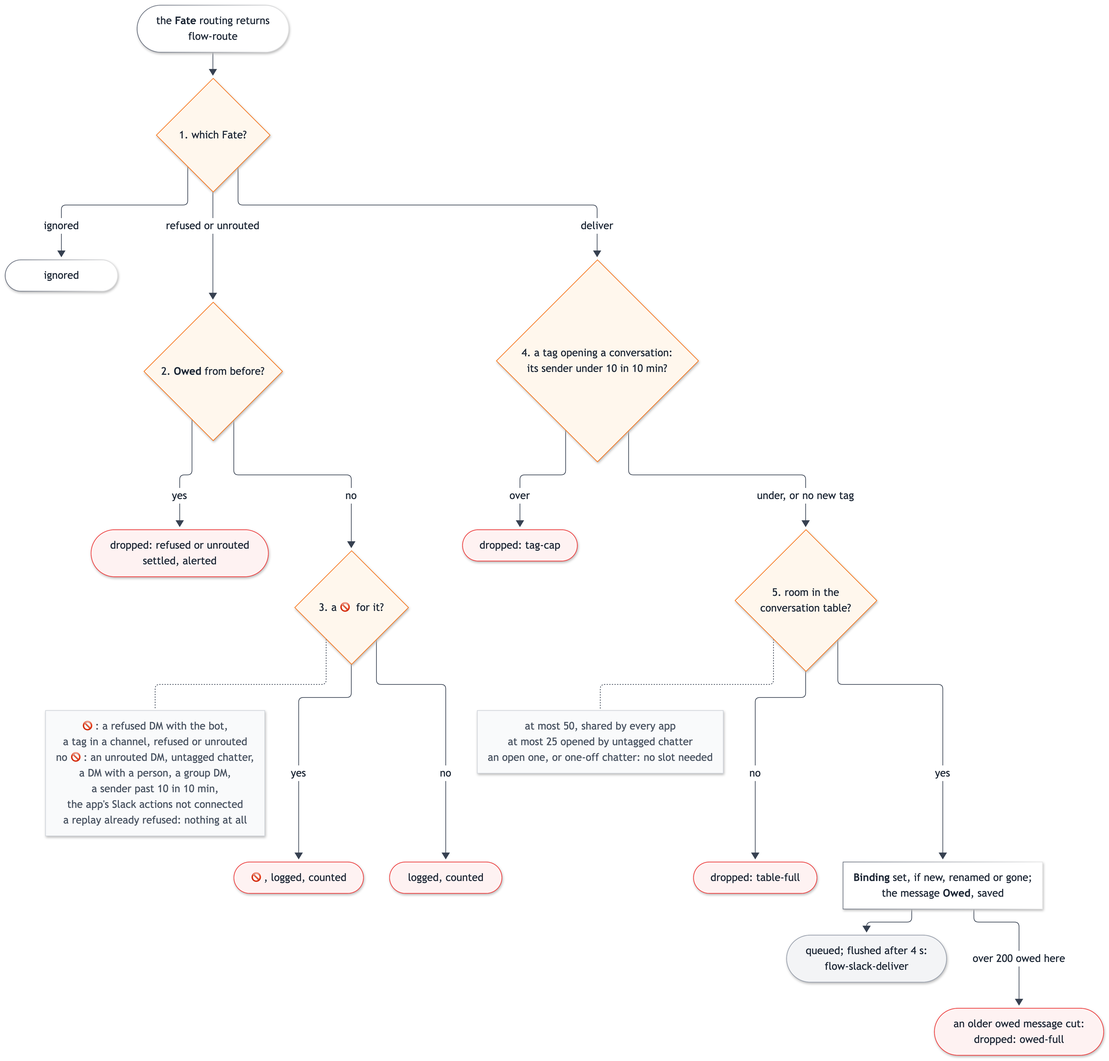
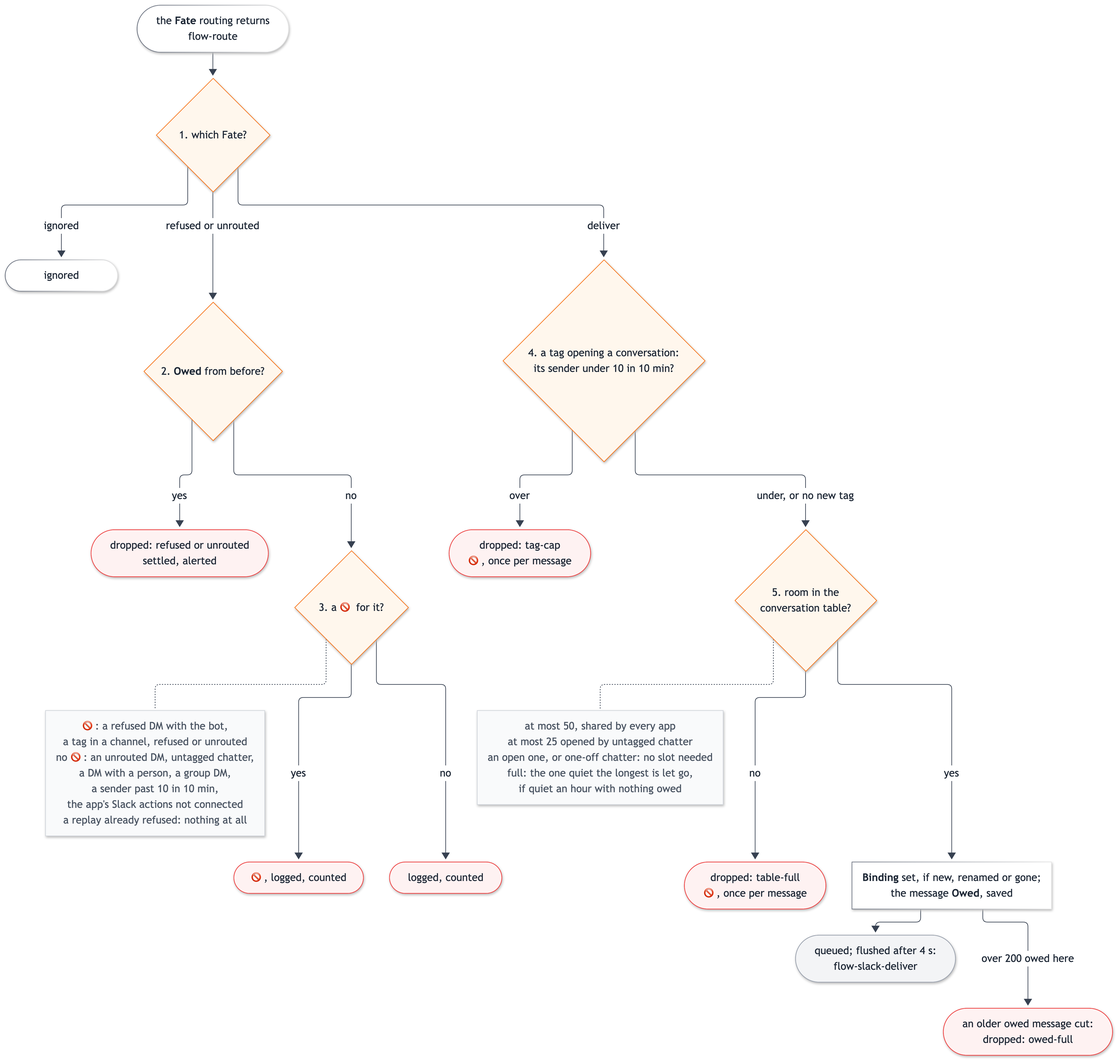
Slack: a full conversation table lets go of the one quiet the longest; a dropped tag gets the 🚫
A full table (50, shared by every app) dropped every new conversation, silently to
its sender. Now it lets go of the conversation quiet the longest, as idle expiry
would, when one has nothing owed, nothing in the window or in flight, no wait for
a session, and an hour of quiet; only when none qualifies is the new one dropped.
table-full and tag-cap drops now get the refusal's 🚫, once per message, under the
same per-sender cap.

diff --git a/connectors/slack/watch.ts b/connectors/slack/watch.ts
@@ -374,6 +374,8 @@ const REACTION_NAME = /^[A-Za-z0-9_+'-]{1,100}(::skin-tone-[2-6])?$/
 const REACTED_KEEP = 300
 const OURS_KEEP = 300
 const AMBIENT_IDLE_MS = 86_400_000
+/** How long a conversation must be quiet before a full table lets it go for a new one. */
+const EVICT_QUIET_MS = 3600_000
 /** The time of a tag in a store that kept none: older than any. */
 const UNKNOWN_TS = '0.000000'
 /** How many channels no rule names catch-up reads for an app, the ones it was tagged in most recently: the bound on the extra history reads. */
@@ -734,12 +736,34 @@ export class ConversationTable {
       return existing
     }
     const cap = this.deps.config(app)?.maxConversations ?? SLACK_LIMITS.maxConversations
-    if (this.list().filter(e => !oneOff(e)).length >= cap) return undefined
+    const held = this.list().filter(e => !oneOff(e))
+    if (held.length >= cap && !this.evict(held, held.length - cap + 1, cap, now, conversationId({ app, channel, threadTs }))) return undefined
     const entry: ConversationEntry = { ...(appOfEntry({ app }) !== DEFAULT_SLACK_APP && { app }), channel, threadTs, specialist, ...(mentionedBy && { mentionedBy }), createdAt: now, lastEventAt: now }
     this.entries.set(keyOf(entry), entry)
     this.persist()
     this.tellSessionsTaken(entry)
     return entry
+  }
+
+  /**
+   * A full table makes room for a new conversation by letting go of the `n` quiet the longest, as idle expiry would (a session thread is told).
+   * Only one with nothing owed, nothing waiting in the window or in flight, no wait for a session, and quiet `EVICT_QUIET_MS`: a session handed
+   * its last message may still be answering, and its reply needs the binding. False, and nothing let go, when fewer than `n` qualify.
+   */
+  private evict(held: ConversationEntry[], n: number, cap: number, now: number, opening: string): boolean {
+    const victims = held.filter(e => {
+      const key = keyOf(e)
+      return !e.owed?.length && e.waitingSince === undefined && !this.pending.has(key) && !this.inflight.get(key)?.size && now - e.lastEventAt >= EVICT_QUIET_MS
+    }).sort((a, b) => a.lastEventAt - b.lastEventAt).slice(0, n)
+    if (victims.length < n) return false
+    for (const e of victims) {
+      this.entries.delete(keyOf(e))
+      const quiet = spanText(now - e.lastEventAt)
+      this.deps.log(`daemon: slack connector: the conversation table is full (${cap}), so ${conversationId(e)}${e.specialist ? ` (bound to ${spelledBare(e.specialist)})` : ''}, quiet the longest (${quiet}), was let go to open ${opening}\n`)
+      if (e.specialist && isSessionThread(e.specialist)) this.deps.alert?.(`ℹ The conversation table was full, so hydra let go of ${conversationId(e)}, the one quiet the longest (no message for ${quiet}). Bind again with \`bind_conversation\` to listen.`, e.specialist, appOfEntry(e))
+    }
+    this.persist()
+    return true
   }
 
   /**
@@ -1234,12 +1258,13 @@ export class ConversationTable {
     // A conversation opened by untagged chatter may take only half the table: the rest stays free for mentions and DMs.
     const ambient = !existing && !tagged && !dm
     if (ambient && this.list().filter(e => e.ambient && !oneOff(e)).length >= Math.floor(cfg.maxConversations / 2)) {
-      this.drop('table-full', { app, channel: ev.channel, threadTs, specialist: d.to }, [ev.ts], `conversations opened by untagged chatter already hold half the conversation table (${Math.floor(cfg.maxConversations / 2)} of ${cfg.maxConversations}); a tag still opens one`)
+      if (this.drop('table-full', { app, channel: ev.channel, threadTs, specialist: d.to }, [ev.ts], `conversations opened by untagged chatter already hold half the conversation table (${Math.floor(cfg.maxConversations / 2)} of ${cfg.maxConversations}); a tag still opens one`)) this.turnedAway({ ...ev, app })
       return 'ignored'
     }
     const entry = existing ?? this.watch(ev.channel, threadTs, d.to, ev.user, app)
     if (!entry) {
-      this.drop('table-full', { app, channel: ev.channel, threadTs, specialist: d.to }, [ev.ts], `the conversation table is full (${cfg.maxConversations}); unbind a conversation`)
+      // Its sender sees the 🚫, as a refused tag's does; a DM with a person or a group DM is not the bot's to react in.
+      if (this.drop('table-full', { app, channel: ev.channel, threadTs, specialist: d.to }, [ev.ts], `the conversation table is full (${cfg.maxConversations}) and none in it has been quiet an hour with nothing owed; unbind a conversation`) && !inNoBotDm) this.turnedAway({ ...ev, app })
       return 'ignored'
     }
     if (ambient) { entry.ambient = true; this.persist() }
@@ -1326,7 +1351,7 @@ export class ConversationTable {
     const recent = (this.mentionTimes.get(user) ?? []).filter(t => now - t < MENTION_WINDOW_MS)
     if (recent.length >= cfg.maxMentionsPer10Min) {
       this.mentionTimes.set(user, recent)
-      this.drop('tag-cap', { app: ev.app, channel: ev.channel, threadTs, specialist: to }, [ev.ts], `${user} tagged the bot ${recent.length} times in 10 minutes outside watched threads (maxMentionsPer10Min)`)
+      if (this.drop('tag-cap', { app: ev.app, channel: ev.channel, threadTs, specialist: to }, [ev.ts], `${user} tagged the bot ${recent.length} times in 10 minutes outside watched threads (maxMentionsPer10Min)`)) this.turnedAway(ev)
       return false
     }
     recent.push(now)
@@ -1380,19 +1405,25 @@ export class ConversationTable {
     if (fate === 'unrouted') this.stats_.unrouted++
     else { this.stats_.refused++; this.stats_.refusedBy[who] = (this.stats_.refusedBy[who] ?? 0) + 1 }
     this.deps.log(`daemon: slack connector: ${fate} ${who} in ${watchKey(ev.app, ev.channel, threadTs)} (ts ${ev.ts}): ${why}\n`)
-    // The 🚫 is capped per sender like tags are: past the window, a refusal is logged and counted only.
+    if (react) this.turnedAway(ev)
+  }
+
+  /**
+   * The 🚫 on a message hydra will not take (refused, unrouted, or dropped by the tag cap or a full table), so its sender sees it went nowhere.
+   * Capped per sender like tags are: past the window, it is logged and counted only. Callers react once per message (a replay is not new).
+   */
+  private turnedAway(ev: Pick<SlackMessageEvent, 'app' | 'channel' | 'ts' | 'user' | 'botId'>): void {
     const sender = ev.user ?? ev.botId
-    if (react && sender) {
+    if (sender) {
       const now = this.deps.now()
       const recent = (this.refusalTimes.get(sender) ?? []).filter(t => now - t < MENTION_WINDOW_MS)
-      if (recent.length >= (this.deps.config(ev.app)?.maxMentionsPer10Min ?? SLACK_LIMITS.maxMentionsPer10Min)) react = false
-      else recent.push(now)
+      const over = recent.length >= (this.deps.config(ev.app)?.maxMentionsPer10Min ?? SLACK_LIMITS.maxMentionsPer10Min)
+      if (!over) recent.push(now)
       this.refusalTimes.set(sender, recent)
+      if (over) return
     }
     const slack = this.actions.get(appOfEntry(ev))
-    if (react && slack) {
-      this.reactAs(slack, ev.app, ev.channel, ev.ts, REFUSED_REACTION)
-    }
+    if (slack) this.reactAs(slack, ev.app, ev.channel, ev.ts, REFUSED_REACTION)
   }
 
   /** A bot joined (or left) a channel: its reactions there are tried again at the next message, whoever it was. */
@@ -1421,10 +1452,10 @@ export class ConversationTable {
     })
   }
 
-  /** A message that will never be delivered: logged every time, counted, and alerted once per episode of its kind. */
-  private drop(kind: DropKind, where: Pick<ConversationEntry, 'app' | 'channel' | 'threadTs' | 'specialist'>, ts: string[], why: string, alert = true): void {
+  /** A message that will never be delivered: logged every time, counted, and alerted once per episode of its kind. False for a replay already dropped. */
+  private drop(kind: DropKind, where: Pick<ConversationEntry, 'app' | 'channel' | 'threadTs' | 'specialist'>, ts: string[], why: string, alert = true): boolean {
     const fresh = ts.filter(t => this.firstTime(this.noted.dropped, `${scoped(where.app, where.channel)}:${t}`))
-    if (!fresh.length) return
+    if (!fresh.length) return false
     this.stats_.dropped[kind] = (this.stats_.dropped[kind] ?? 0) + fresh.length
     // A session thread's owed messages go undelivered when no session is in it: say what to do.
     const vacantAdvice = where.specialist && isSessionThread(where.specialist) && (kind === 'expired' || kind === 'owed-full') ? '. These never reached a session: if none is running in this thread, resume one; or `unbind_conversation` to let the conversation go' : ''
@@ -1433,6 +1464,7 @@ export class ConversationTable {
     // Keyed by kind and by who hears it: one specialist's trouble does not silence another's.
     const to = where.specialist ?? listenerOf(this.deps.config(where.app), where.channel)
     if (alert) this.alertOnce(`${kind}:${to ?? '-'}`, to, `⚠ ${line[0].toUpperCase()}${line.slice(1)}. Further ${kind} drops within the hour are logged, not alerted; \`hydra conversations\` counts them.`, appOfEntry(where))
+    return true
   }
 
   /**

diff --git a/connectors/slack/__tests__/watch.test.ts b/connectors/slack/__tests__/watch.test.ts
@@ -514,6 +514,88 @@ describe('limits', () => {
     expect(logs.join()).toContain('the conversation table is full')
   })
 
+  test('a full table lets go of the conversation quiet the longest for a new one, logged; the new one is delivered', async () => {
+    const { w, sent, logs, tick } = setup({ maxConversations: 2 })
+    w.handle(ev({ ts: '1.000001', text: mention }))
+    tick(60_000)
+    w.handle(ev({ ts: '2.000001', text: mention }))
+    await w.flush()
+    tick(2 * 3600_000)
+    expect(w.handle(ev({ ts: '3.000001', text: mention }))).toBe('mention')
+    await w.flush()
+    expect(w.list().map(e => e.threadTs).sort()).toEqual(['2.000001', '3.000001'])
+    expect(sent.at(-1)!.msg).toContain('spin up a cart')
+    expect(logs.join()).toContain(`the conversation table is full (2), so slack:${CH}:1.000001 (bound to specialist:helper), quiet the longest (2 hours), was let go to open slack:${CH}:3.000001`)
+    expect(w.stats().dropped).toEqual({})
+  })
+
+  test('nothing is let go that is owed, waiting in the window, or quiet under an hour: the new one is dropped then', async () => {
+    let up = false
+    const owed = setup({ maxConversations: 1 }, () => up ? { ok: true } : { ok: false, error: 'down' })
+    owed.w.handle(ev({ ts: '1.000001', text: mention }))
+    await owed.w.flush()
+    owed.tick(2 * 3600_000)
+    expect(owed.w.handle(ev({ ts: '2.000001', text: mention }))).toBe('ignored')   // still owed
+    expect(owed.w.get(CH, '1.000001')).toBeDefined()
+    expect(owed.w.stats().dropped).toEqual({ 'table-full': 1 })
+    up = true
+
+    const windowed = setup({ maxConversations: 1, coalesceMs: 60_000 })
+    windowed.w.handle(ev({ ts: '1.000001', text: mention }))
+    windowed.tick(2 * 3600_000)
+    expect(windowed.w.handle(ev({ ts: '2.000001', text: mention }))).toBe('ignored')   // its batch has not gone out yet
+
+    const recent = setup({ maxConversations: 1 })
+    recent.w.handle(ev({ ts: '1.000001', text: mention }))
+    await recent.w.flush()
+    recent.tick(59 * 60_000)                                                         // its session may still be answering
+    expect(recent.w.handle(ev({ ts: '2.000001', text: mention }))).toBe('ignored')
+    recent.tick(60_000)
+    expect(recent.w.handle(ev({ ts: '3.000001', text: mention }))).toBe('mention')
+    await recent.w.flush()
+  })
+
+  test("a session thread whose conversation a full table lets go is told, as at idle expiry", async () => {
+    const SESSION = '1552619225032425525'
+    const { w, alerts, alertTo, tick } = setup({ maxConversations: 1 })
+    w.bind('C0OTHER', '2000.000001', SESSION, 'tool')
+    tick(2 * 3600_000)
+    expect(w.handle(ev({ ts: '3.000001', text: mention }))).toBe('mention')
+    await w.flush()
+    expect(w.get('C0OTHER', '2000.000001')).toBeUndefined()
+    expect(alertTo).toEqual([SESSION])
+    expect(alerts[0]).toContain('The conversation table was full, so hydra let go of slack:C0OTHER:2000.000001')
+  })
+
+  test('a tag a full table or the tag cap drops gets the 🚫, once per message; the bot\'s own post does not', () => {
+    const full = setup({ maxConversations: 1 })
+    const f = actions()
+    full.w.setSlackActions(f.a)
+    full.w.handle(ev({ ts: '1.000001', text: mention }))
+    full.w.handle(ev({ ts: '2.000001', text: mention }))
+    full.w.handle(ev({ ts: '2.000001', text: mention }))                              // a replay
+    full.w.handle(ev({ ts: '3.000001', user: BOT, text: 'posted' }))
+    expect(f.reactions).toEqual([`${CH}:2.000001:${REFUSED_REACTION}`])
+
+    const capped = setup({ maxMentionsPer10Min: 1 })
+    const c = actions()
+    capped.w.setSlackActions(c.a)
+    capped.w.handle(ev({ ts: '1.000001', text: mention }))
+    capped.w.handle(ev({ ts: '2.000001', text: mention }))
+    capped.w.handle(ev({ ts: '2.000001', text: mention }))                            // a replay
+    expect(c.reactions).toEqual([`${CH}:2.000001:${REFUSED_REACTION}`])
+    expect(capped.w.stats().dropped).toEqual({ 'tag-cap': 1 })
+  })
+
+  test('the 🚫 on dropped tags is capped per sender, like a refusal\'s', () => {
+    const s = setup({ maxMentionsPer10Min: 2 })
+    const { a, reactions } = actions()
+    s.w.setSlackActions(a)
+    for (let i = 1; i <= 8; i++) s.w.handle(ev({ ts: `${i}.000001`, text: mention }))
+    expect(reactions).toEqual([`${CH}:3.000001:${REFUSED_REACTION}`, `${CH}:4.000001:${REFUSED_REACTION}`])
+    expect(s.w.stats().dropped).toEqual({ 'tag-cap': 6 })
+  })
+
   test('one person tagging in a loop is cut off; others and later windows are fine', () => {
     const { w, tick } = setup({ maxMentionsPer10Min: 3 })
     const tag = (n: number, user = 'UALICE') => w.handle(ev({ ts: `${n}.000001`, user, text: mention }))

diff --git a/docs/slack-connector.md b/docs/slack-connector.md
@@ -4,7 +4,7 @@ The Slack connector (`connectors/slack/`) is one connector of [routing](diagrams
 
 **Where a message goes.** A conversation is an app, a channel and a thread (or a DM's top level). It is bound to a specialist when its first message arrives: by the first `[[rules]]` entry that matches the place, the app and the sender (a rule names a place, an app, or both; a specialist can be pinned to apps; when two apps share a channel, one is the owning app of each message: see [Apps and routing](slack.md#apps-and-routing)), else, for the operator's DM, `main`. A rule is the only place a specialist is heard: a specialist has no `listens`: every place it hears is a rule. Everything later in it, owed messages included, follows the binding: a config change re-routes only new conversations, a rename through `renamed_from` keeps them, and a conversation whose specialist is no longer declared is routed anew. `hydra conversations bind <conversation> <target>` moves one (`specialist:<name>`, `main` or `thread:<id>`; to `thread:<id>`, the app also posts in the Slack thread which session took it and its link, with the reason `--why <reason>` gives); `hydra route --person <person:id> --place <place>` prints every candidate and why the winner won. A message that tags the bot, or a DM, opens a conversation; every later reply in it reaches the specialist, tagged or not, until it has been idle a week. A tag no binding and no rule takes goes to the app's `router`, if it names one: `main` (the operator's tag only) or a specialist that hears whoever its `reachable_by` lets in, and that may bind the thread to another session; it is third in order, never owns its app's untagged messages, and never takes back a thread bound to a session ([The app's router](slack.md#the-apps-router)). (A rule with no `place` to `main`, a catch-all, does the same for one more release.) Where `[places]` says `messages = "all"`, an untagged top-level message opens a conversation too: its own thread, bound to wherever that message routed (so one person's message never captures the place, and replies under it follow its binding). Conversations opened by untagged chatter go after a day idle rather than a week; while still owed or answered (a reply under them) they may take only half the conversation table, and once delivered and unanswered they hold no slot at all, so a busy place keeps being heard.
 
-**Who may reach it.** `reachable_by` (roles, never people, each written `role:<name>`) is checked when a message arrives and again when it is delivered, so taking a role away refuses at once. The operator reaches every specialist; `main` hears only the operator; `role:people` is everyone on the roster and `role:anyone` admits strangers. A mention that is refused or that no specialist hears, and a DM that is refused, get a 🚫 reaction (capped per sender like tags; past the cap, logged and counted only); a DM that no specialist hears is logged and counted and gets no reply. The 🚫 applies to a DM with the bot only; a DM with a person or a group DM is logged and counted, never reacted to. Each is counted, before anything is bound, owed or counted against the tag cap; ambient chatter never does. A message accepted and then unable to go anywhere (its sender's role taken away while it waited, or its specialist removed with nobody else hearing the place) is a counted, alerted drop. Hydra's notices to senders are reactions, never prose.
+**Who may reach it.** `reachable_by` (roles, never people, each written `role:<name>`) is checked when a message arrives and again when it is delivered, so taking a role away refuses at once. The operator reaches every specialist; `main` hears only the operator; `role:people` is everyone on the roster and `role:anyone` admits strangers. A mention that is refused or that no specialist hears, a DM that is refused, and a message dropped by the tag cap or a full table (`tag-cap`, `table-full`) get a 🚫 reaction, once per message (capped per sender like tags; past the cap, logged and counted only); a DM that no specialist hears is logged and counted and gets no reply. The 🚫 applies to a DM with the bot only; a DM with a person or a group DM is logged and counted, never reacted to. Each is counted, before anything is bound, owed or counted against the tag cap; ambient chatter never does. A message accepted and then unable to go anywhere (its sender's role taken away while it waited, or its specialist removed with nobody else hearing the place) is a counted, alerted drop. Hydra's notices to senders are reactions, never prose.
 
 **Replies.** A specialist answers with `reply`, passing the delivery's `conversation` as `chat_id` (`slack:C0ABC:1793732224.093059`, or `slack:D0ABC` for a DM). Hydra posts the text as written, into that thread (or the top level it came from), split under Slack's 4,000-character advice, and only when the conversation is bound to the caller's specialist (`main` for the operator's DMs): a reply goes back where its question came from, and nowhere else. A specialist may also post to its own `home_place` when that is a Slack place (`reply` with `chat_id` = the home_place as hydra.toml writes it, or `slack:<channel id>`): a schedule's reply has no conversation. It goes as a new top-level message, any further parts in its thread, and that thread is bound to the specialist so answers come back to it. A home_place thread counts with the conversations a specialist binds by hand (at most 10); past that the post goes, unbound, and the operator is alerted. Authority is checked again before each part, so a conversation moved away mid-reply gets no more of it. Posting never retries on its own and gives up after 30 s: a part with no answer is reported as unknown (it may have posted), never silently resent. A conversation that has gone idle can't be answered; attachments aren't posted yet.
 
@@ -16,9 +16,9 @@ A message is *owed* from the moment it is accepted until a delivery lands, and t
 
 **`[guard]`** is your own command, run for each message from anyone but the operator after routing and the `reachable_by` check: `command`, `timeout` (default `5s`, at most 30 s), `include_text`, `owed_max` (default `1h`). Its stdin is `{person, roles, place, conversation, target}`, where `target` says its kind (`specialist:ops`, `main`, `thread:<id>`) and prints back as a redirect unchanged (`conversation` is the id `hydra conversations` prints, as in [Slack setup](slack.md#conversations-and-replies-per-app): for an app other than `default` it starts `slack:<app>:`) (plus `text` with `include_text`). Exit 0 delivers; printing `{"target": "specialist:x"}` (or `"main"`; a thread does not work) redirects that message (not the conversation), and `x`'s `reachable_by` is checked again; a redirect it refuses, or to no declared specialist (alerted once per episode), goes to the binding instead. A bare `"x"` or a `{"to": ...}` is not a redirect: the message is delivered to the binding anyway, and the log says what to print. Exit 10 drops (counted, not alerted). Exit 75 keeps it owed and the next catch-up pass offers it again, for at most `owed_max` from the first deferred, then it is dropped as `expired`. Anything else, a timeout, too much output or a command that will not start delivers anyway and is logged: a broken guard never silences anyone. It runs in its own process group with an allowlisted environment and a 4 KB stdout cap.
 
-Nothing is dropped silently: a message dropped because it stayed owed past a day (`expired`), more than 200 were owed in its thread (`owed-full`), it can never fit a delivery (`too-large`), its sender opened too many conversations in ten minutes (`tag-cap`), a person's reactions passed their cap (`reaction-cap`: counted and logged, never alerted), the conversation table is full (`table-full`), or catch-up had to skip part of a very busy channel (`catch-up-gap`) is logged, counted by kind, and alerted in the thread of the specialist it concerns once per episode: an episode runs an hour from its first drop, per kind and specialist. Unbinding a conversation that still owed messages drops them (`unbound`, alerted). `hydra conversations` is the operator view, and `hydra health` → `slack` shows the conversation count, the age of the oldest owed message, and the refusal, unrouted and drop counts. A session in a specialist declared in hydra.toml gets `bind_conversation` / `unbind_conversation`, for threads in channels it hears (a rule sends it the place, with no `person`; never a DM or a top level, never one bound elsewhere, at most 10 bound by its own hand), and `list_watches` shows it the conversations bound to it.
+Nothing is dropped silently: a message dropped because it stayed owed past a day (`expired`), more than 200 were owed in its thread (`owed-full`), it can never fit a delivery (`too-large`), its sender opened too many conversations in ten minutes (`tag-cap`), a person's reactions passed their cap (`reaction-cap`: counted and logged, never alerted), the conversation table is full (`table-full`: its 50 places, shared by every app, hold nothing that has been quiet an hour with nothing owed; while one has, the one quiet the longest is let go for the new conversation as idle expiry would, logged, and a session thread it was bound to is told), or catch-up had to skip part of a very busy channel (`catch-up-gap`) is logged, counted by kind, and alerted in the thread of the specialist it concerns once per episode: an episode runs an hour from its first drop, per kind and specialist. Unbinding a conversation that still owed messages drops them (`unbound`, alerted). `hydra conversations` is the operator view, and `hydra health` → `slack` shows the conversation count, the age of the oldest owed message, and the refusal, unrouted and drop counts. A session in a specialist declared in hydra.toml gets `bind_conversation` / `unbind_conversation`, for threads in channels it hears (a rule sends it the place, with no `person`; never a DM or a top level, never one bound elsewhere, at most 10 bound by its own hand), and `list_watches` shows it the conversations bound to it.
 
-**A session listens to a Slack thread.** Once hydra.toml declares a Slack app, any session (not a protocol guest) can call `bind_conversation(slack:<channel>:<thread ts>)` (the conversation id as in [Slack setup](slack.md#conversations-and-replies-per-app)) to bind a thread to its own thread. The bind first asks Slack who can read the thread: the bot (live), or, when the bot isn't in the channel and `operator_token_env` is set, the operator (live when the operator token is from the same app, with its user events; otherwise at each deep catch-up); when neither can, the bind is refused with what to do, never "listening" to nothing. While Slack is disconnected the bind is unchecked. `list_watches` marks a thread read as the operator, and each deep catch-up updates that, so inviting the bot moves it back. A listened thread that later can't be read is let go, and the session is told once. Each new message arrives as a specialist's delivery would: the same envelope, coalescing, owed, guard and catch-up. Each message in it also says `tagged=true|false` (whether the app that heard the thread was tagged in it, by the connector's own tag detection) and `from=operator|approved|other` (approved: declared in `[people]`), and the delivery opens with one hydra line on what that likely means: a tag from the operator or an approved person likely asks something, so the session answers in the thread if it asks or needs something (a pure cc needs no reply); anything else is for listening. It comes from whoever posts there. The thread keeps its bound conversations while no session is in it: a handoff, a respawn or a recovery after a crash finds them still bound, nothing re-bound. What arrives meanwhile stays owed and is delivered when a session registers in the thread. **It expires like any owed message: after 24 hours, or past 200 in one conversation, it is dropped and said in the thread** (the 3 day wait applies only to a specialist at `max_sessions`), so a session resumed after 24 hours does not get the older ones. A subscription nobody ends on a busy thread holds one of the table's 50 places, because any message resets its idle clock: end it with `unbind_conversation` (or `hydra conversations unbind`). A session that ends for good unbinds its thread's conversations at once and says so in the thread, and nothing owed is kept: an explicit kill (`kill`, `hydra kill`, `kill_session`), an idle reap that cannot be resumed, a phase-budget end, a protocol end, an ephemeral `[done]`. A crash, handoff, respawn or resumable idle end keeps them. They also end on `unbind_conversation`, when the session's thread is deleted (asked of the gateway when its session ends, at start and hourly), when Slack can no longer read the conversation, when idle a week, or when **no session has been in the thread for a day** (`VACANT_RELEASE_MS`): that day counts from when the thread became vacant (a session's death, or the first hourly check that finds none), not from the last Slack message, is stopped by a session registering there, and survives a daemon restart. What it still owed is dropped, and the thread is told once, naming what was let go and how to bind again; an idle-week end says so once in the thread too. A specialist's own thread is not covered: its conversations are bound to the specialist and it is refilled, not let go. A plain session (neither restricted nor write-confined) may `reply` into it, through the app the conversation id names, as that app's bot (never with the operator's token); where the bot isn't in the channel, the answer goes to the operator's DM with the app, naming the session and linking the thread. Whether to speak is the session's judgment, not a rule on the tag. No other session posts there, main included, and a restricted or write-confined session the thread is bound to only listens. A place's `ack` reaction is still added. A specialist binding the thread where it listens takes it over, and the session is told. A guard can't redirect a message to a session's thread. Catch-up rereads such a thread from its own last delivery, since no specialist's channel cursor covers it. The operator can also bind one there: `hydra conversations bind <conversation> thread:<id>`. Flow: [`diagrams/flow-slack-accept.mmd`](diagrams/flow-slack-accept.mmd), then [`diagrams/flow-slack-deliver.mmd`](diagrams/flow-slack-deliver.mmd).
+**A session listens to a Slack thread.** Once hydra.toml declares a Slack app, any session (not a protocol guest) can call `bind_conversation(slack:<channel>:<thread ts>)` (the conversation id as in [Slack setup](slack.md#conversations-and-replies-per-app)) to bind a thread to its own thread. The bind first asks Slack who can read the thread: the bot (live), or, when the bot isn't in the channel and `operator_token_env` is set, the operator (live when the operator token is from the same app, with its user events; otherwise at each deep catch-up); when neither can, the bind is refused with what to do, never "listening" to nothing. While Slack is disconnected the bind is unchecked. `list_watches` marks a thread read as the operator, and each deep catch-up updates that, so inviting the bot moves it back. A listened thread that later can't be read is let go, and the session is told once. Each new message arrives as a specialist's delivery would: the same envelope, coalescing, owed, guard and catch-up. Each message in it also says `tagged=true|false` (whether the app that heard the thread was tagged in it, by the connector's own tag detection) and `from=operator|approved|other` (approved: declared in `[people]`), and the delivery opens with one hydra line on what that likely means: a tag from the operator or an approved person likely asks something, so the session answers in the thread if it asks or needs something (a pure cc needs no reply); anything else is for listening. It comes from whoever posts there. The thread keeps its bound conversations while no session is in it: a handoff, a respawn or a recovery after a crash finds them still bound, nothing re-bound. What arrives meanwhile stays owed and is delivered when a session registers in the thread. **It expires like any owed message: after 24 hours, or past 200 in one conversation, it is dropped and said in the thread** (the 3 day wait applies only to a specialist at `max_sessions`), so a session resumed after 24 hours does not get the older ones. A subscription nobody ends on a busy thread holds one of the table's 50 places, because any message resets its idle clock (a full table lets go of the one quiet the longest, never a busy one): end it with `unbind_conversation` (or `hydra conversations unbind`). A session that ends for good unbinds its thread's conversations at once and says so in the thread, and nothing owed is kept: an explicit kill (`kill`, `hydra kill`, `kill_session`), an idle reap that cannot be resumed, a phase-budget end, a protocol end, an ephemeral `[done]`. A crash, handoff, respawn or resumable idle end keeps them. They also end on `unbind_conversation`, when the session's thread is deleted (asked of the gateway when its session ends, at start and hourly), when Slack can no longer read the conversation, when idle a week, or when **no session has been in the thread for a day** (`VACANT_RELEASE_MS`): that day counts from when the thread became vacant (a session's death, or the first hourly check that finds none), not from the last Slack message, is stopped by a session registering there, and survives a daemon restart. What it still owed is dropped, and the thread is told once, naming what was let go and how to bind again; an idle-week end says so once in the thread too. A specialist's own thread is not covered: its conversations are bound to the specialist and it is refilled, not let go. A plain session (neither restricted nor write-confined) may `reply` into it, through the app the conversation id names, as that app's bot (never with the operator's token); where the bot isn't in the channel, the answer goes to the operator's DM with the app, naming the session and linking the thread. Whether to speak is the session's judgment, not a rule on the tag. No other session posts there, main included, and a restricted or write-confined session the thread is bound to only listens. A place's `ack` reaction is still added. A specialist binding the thread where it listens takes it over, and the session is told. A guard can't redirect a message to a session's thread. Catch-up rereads such a thread from its own last delivery, since no specialist's channel cursor covers it. The operator can also bind one there: `hydra conversations bind <conversation> thread:<id>`. Flow: [`diagrams/flow-slack-accept.mmd`](diagrams/flow-slack-accept.mmd), then [`diagrams/flow-slack-deliver.mmd`](diagrams/flow-slack-deliver.mmd).
 
 **The Slack connector's apps.** One app's live connection is what the code calls a listener (`listener.ts`); the word names nothing else. Each app (`[slack.apps.<id>]`) names the variables holding its bot token (`xoxb-…`, `bot_token_env`) and its Socket Mode token (`xapp-…`, scope `connections:write`, `socket_token_env`; needed to connect, not for `hydra slack manifest`). Optionally `operator_token_env` names the operator's token (`xoxp-…`, a Slack user token): it reads threads in channels the operator is in and the bot isn't, and, with the user scope `chat:write`, lets main edit or delete the operator's own messages; it never posts; their files are listed, not fetched. With it the app hears every channel, DM and group DM the operator is in (user scopes `im:history`, `mpim:history` and `im:read` among them, so the token can read all the operator's DMs). Hearing is not delivering: a place no rule, `[places]` entry or open conversation names is dropped before any conversation, thread or session (a tag in a channel is still answered). A DM with a person is `slack:person-dm:<person>` (a `[people]` id with a Slack address), a group DM is `slack:group-dm:<G id>` (`slack:group-dm:*` for every one), and a DM with an app's bot is `slack:app-dm:<app>` (`slack:app-dm:*` for every app's; a single-app setup's app is `default`); a `*` place and a specific one in `[places]` resolve specific first ([Slack setup](slack.md#dms-and-group-dms-the-operators-app-hears)). A refused operator token is alerted once an hour, and the threads read with it are kept until it is replaced. Each token is read from the variable its key names, and hydra keeps those variables from every session it starts, so a session cannot read them. A variable sessions need (`PATH`, `HOME`, `ANTHROPIC_API_KEY`, anything starting `HYDRA_` other than `HYDRA_SLACK_`, `CLAUDE_`, `LC_` or `XDG_`, and the others in [Slack setup](slack.md#apps-in-hydratoml)) is refused when hydra.toml loads. At connect the daemon reads its own ids and workspace from `auth.test`, channel names from `conversations.list` (refreshed each catch-up pass and on `channel_rename`; without the scope, places named by id still work, and the missing scope is logged once), logs the scopes each enabled option needs, and warns for each the token lacks. It opens one Socket Mode connection per app (after boot recovery; an app with no tokens is skipped and said so by name, with the key to fix, the others connect), each with its own reconnects and catch-up; its writes are reactions and the specialists' replies, through the app that heard the message; a post that answers no message (a specialist's `home_place`, a new thread) uses the specialist's `speaks_as`. A conversation is an app, a channel and a thread; its id is written once, in [Slack setup](slack.md#conversations-and-replies-per-app). Where several apps are in one channel, hydra reads which are members (`conversations.info`, cached) and the first connection to decide a message fixes its owning app, so exactly one answers; see [Slack setup](slack.md#apps-and-routing). Every delivery to a target is logged as `slack connector: delivered <conversation> (<first>..<last>) to <target>` (`main`, `specialist:<name>` or `thread:<id>`), and a failed one as `delivery to <target> failed`. `hydra health` lists a conversation whose oldest owed message is older than 20 minutes (two catch-up passes) with its cause (`owedLate`), and a restricted specialist whose last start was refused (`refusedLaunches`). `hydra health` reports `slack.apps.<id>` for each declared app, and `slack.listener` for `default` (else the first connected; the key keeps its old name); an app with no tokens logs `slack connector for <name> (<id>) off (…)` and is alerted, by its name and with the key to fix, to the specialists it can reach. `hydra slack manifest [<app>]` prints the Slack app to create: the Messages tab on and writable (without it Slack refuses the operator's DM to the app), every scope and event the connector uses (the user ones only with `operator_token_env`; the startup scope check reads the same list, in `connectors/slack/app.ts`), named by the app's `display_name` (default `hydra` for `default`, else the app's id; at most 35 characters; every alert, notice and `hydra health` line calls the app by this name, and names its `[slack.apps.<id>]` table only where the operator must edit a key) and described by `description` (at most 140). At api.slack.com/apps choose Create New App → From a manifest, paste it, install the app, and put its tokens in the variables its `bot_token_env`, `socket_token_env` and `operator_token_env` keys name, in `.env`. Each app's bot must be in the channels it is to hear. Nothing else should hold a Socket Mode connection on the same app: Slack splits events between connections.
 

diff --git a/diagrams/flow-slack-fate.sources.md b/diagrams/flow-slack-fate.sources.md
@@ -22,6 +22,8 @@ Checked against code at 42721c5. Bold names are README's core abstractions or th
 | at most 25 opened by untagged chatter | `connectors/slack/watch.ts:854-855` | `!existing && !tagged && !dm`: `floor(50 / 2)` |
 | an open one, or one-off chatter: no slot needed | `connectors/slack/watch.ts:552-556`, `:330`, `:559` | an existing entry skips the cap; `oneOff` is not counted |
 | no → dropped: table-full | `connectors/slack/watch.ts:856`, `:861` | `drop('table-full', …)` |
+| full: the one quiet the longest is let go, if quiet an hour with nothing owed | `connectors/slack/watch.ts:740`, `:753-768`, `:378` | `evict`: no owed, no pending batch or in flight, no `waitingSince`, `EVICT_QUIET_MS = 1 h`; oldest `lastEventAt` first |
+| 🚫, once per message (tag-cap, table-full) | `connectors/slack/watch.ts:1261`, `:1267`, `:1354`, `:1415` | `drop` returns false for a replay; `turnedAway` is the refusal's per-sender capped `no_entry_sign`; none in a DM with a person or a group DM |
 | Binding set, if new, renamed or gone | `connectors/slack/watch.ts:859`, `:866`; `routing/route.ts:224-232` | a new entry is bound to `d.to`; `(d.bind \|\| via binding) && specialist !== d.to` rebinds |
 | the message Owed, saved | `connectors/slack/watch.ts:923-927` | `insertTs(owed, ts, OWED_KEEP)`, persisted before anything is sent |
 | over 200 owed here → an older owed message cut: dropped: owed-full | `connectors/slack/watch.ts:331`, `:937-940` | `OWED_KEEP = 200`; a cut ts not in the window or in flight → `drop('owed-full')` |
